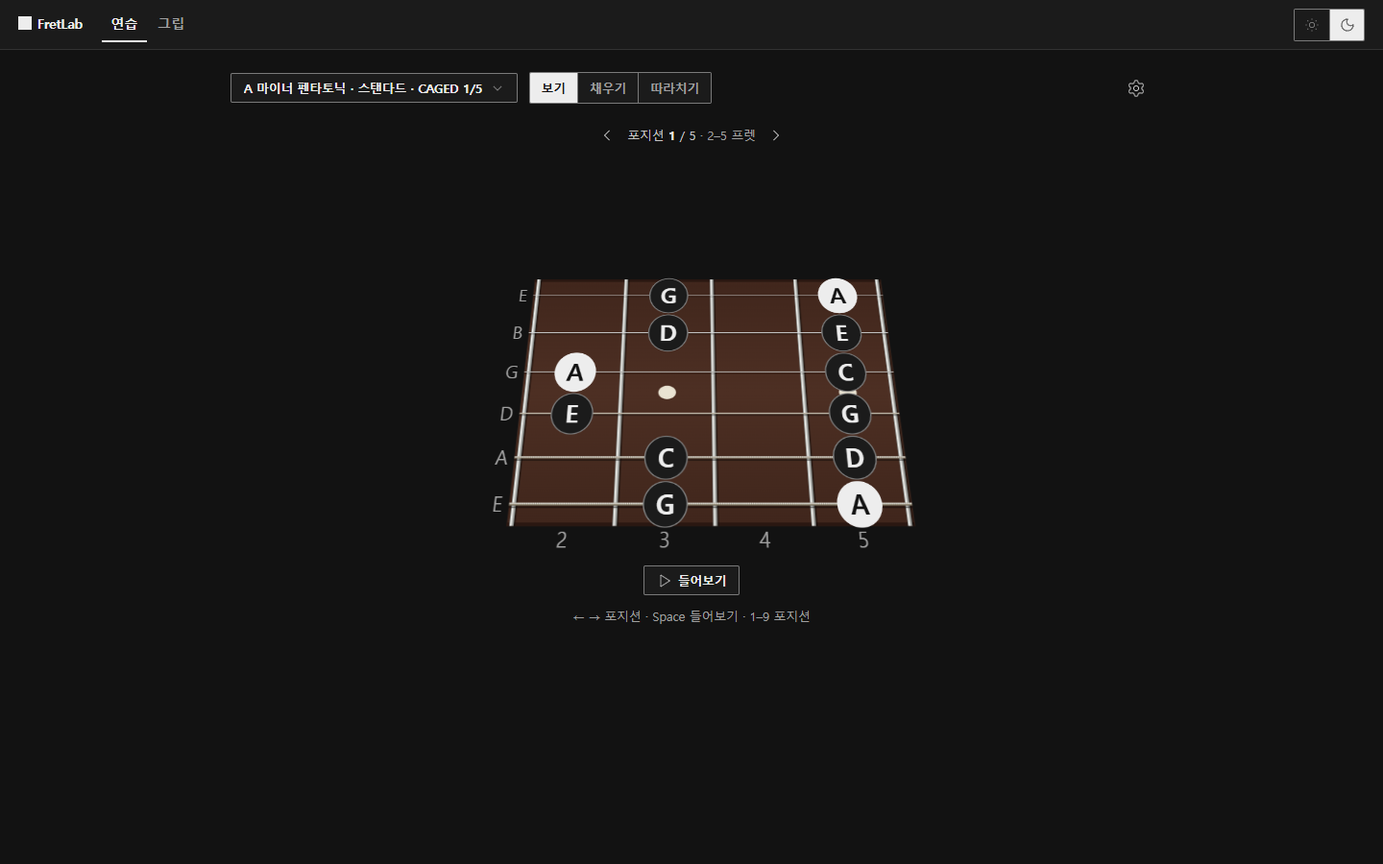
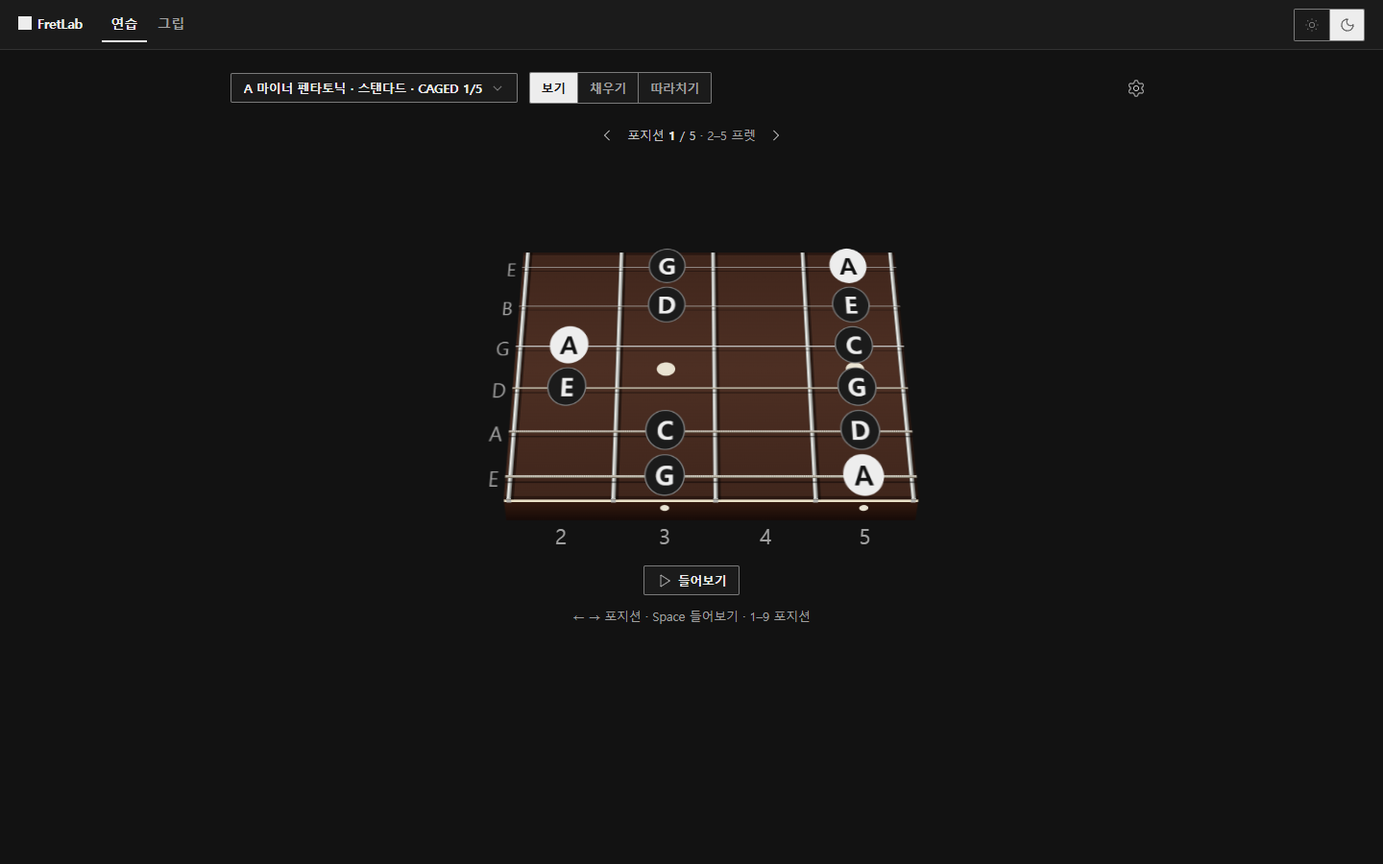
연주자 시점 입체감: 넥 옆면과 사이드 도트, 줄 그림자, 프렛 크라운, 너트 블록

Changed region(s): [[0.3438, 0.28, 0.6875, 0.6222]]

diff --git a/src/features/fretboard/Fretboard.tsx b/src/features/fretboard/Fretboard.tsx
@@ -1,6 +1,7 @@
-// 프렛보드 — 공유 계약 orchestration_fretlab.md §3.5 (에이전트 B 소유). SVG 하나에 지판·인레이·프렛·너트·줄·줄 이름·번호·마크·라벨·탭 셀.
+// 프렛보드 — 공유 계약 orchestration_fretlab.md §3.5 (에이전트 B 소유).
 // 실물 그리기(3차 R1): 색은 fretboard.css 의 --fb-*, 칸 폭은 geometry.wirePos. 줄·프렛 굵기는 화면 px 기준(ResizeObserver 배율).
-// view=player 는 래퍼 CSS 3D(fretboard.css), fill 은 부모 px 를 읽어 1단위 = 1px 로 그린다(그립 모드).
+// 5차 3D: 같은 viewBox 의 SVG 레이어 — 보드(z 0) · 옆면(지판 아래 가장자리에서 -90° 접힘) · 줄+너트 윗면(z HS) · 마크·라벨·탭 셀(z 2HS) + 스테이지 밖 번호.
+// view=player 는 스테이지 CSS 3D(fretboard.css), fill 은 부모 px 를 읽어 1단위 = 1px 로 그린다(그립 모드).
 import { useEffect, useRef, useState } from 'preact/hooks'
 import type { Accidental, FretPos, FretState, FretView, LabelMode, Mark, Tuning } from '../../core/types'
 import { posKey } from '../../core/types'
@@ -32,10 +33,12 @@ export type FretboardProps = {
 
 const NS = 'vector-effect'
 const PRESS_MS = 160
+/** 줄·너트 윗면이 지판에서 뜬 높이(화면 px). fretboard.css 의 translateZ 와 같은 값 */
+const HS = 3
 
 const grad = (id: string, vertical: boolean, stops: [number, string][]) => (
   <linearGradient id={id} x1="0" y1="0" x2={vertical ? 0 : 1} y2={vertical ? 1 : 0}>
-    {stops.map(([o, c]) => <stop key={o} offset={o} class={`fb-c-${c}`} />)}
+    {stops.map(([o, c]) => <stop key={c + o} offset={o} class={`fb-c-${c}`} />)}
   </linearGradient>
 )
 
@@ -115,6 +118,10 @@ export function Fretboard(p: FretboardProps) {
   const over = Math.min(L.padX, wireW)
   const left = a > 0 ? L.boardX - over : L.boardX, right = L.boardX + L.boardW + over
   const edge = L.sg * 0.07
+  // 옆면(5차 P2): 넥 두께 hn, 보드 위로 솟은 높이 hs. 옆면 SVG 는 y = bottom 선에서 접힌다 — 선 아래가 넥 옆면, 위가 너트 앞면·프렛 끝
+  const hn = L.sg * 0.55, hs = u(HS), sideR = L.sg * 0.075, sideY = L.bottom + hn * 0.42
+  const side: preact.JSX.Element[] = []
+  let nut: preact.JSX.Element | undefined
 
   const cells: preact.JSX.Element[] = []
   const nums: preact.JSX.Element[] = []
@@ -122,15 +129,22 @@ export function Fretboard(p: FretboardProps) {
   const dots: preact.JSX.Element[] = []
   for (let f = a; hasBoard && f <= hi; f++) {
     const x = L.wireX(f)
-    if (f === 0) wires.push(<rect key="nut" class="fb-nut" x={x - nutW} y={L.top} width={nutW} height={boardH} rx={u(1.5)} {...{ [NS]: 'non-scaling-stroke' }} />)
-    else wires.push(
-      <rect key={`ws${f}`} class="fb-shadow" x={x + wireW / 2} y={L.top} width={u(1.5)} height={boardH} />,
-      <rect key={`w${f}`} class="fb-fret" fill="url(#fb-g-fret)" x={x - wireW / 2} y={L.top} width={wireW} height={boardH} />,
-    )
+    if (f === 0) {
+      nut = <rect class="fb-nut" x={x - nutW} y={L.top} width={nutW} height={boardH} rx={u(1.5)} {...{ [NS]: 'non-scaling-stroke' }} />
+      side.push(<rect key="nf" class="fb-nut-front" x={x - nutW} y={L.bottom - hs} width={nutW} height={hs + hn * 0.5} />)
+    } else {
+      wires.push(
+        <rect key={`ws${f}`} class="fb-shadow fb-cast" x={x + wireW / 2} y={L.top} width={u(1.5)} height={boardH} />,
+        <rect key={`w${f}`} class="fb-fret" fill="url(#fb-g-fret)" x={x - wireW / 2} y={L.top} width={wireW} height={boardH} />,
+      )
+      side.push(<rect key={`we${f}`} class="fb-fret-end" x={x - wireW / 2} y={L.bottom - hs / 3} width={wireW} height={hs / 3 + hn * 0.16} />)
+    }
   }
   for (let f = lo; f <= hi; f++) {
     const x = L.x(f), cx = L.cx(f)
     if (INLAY.has(f)) {
+      // 사이드 도트: 지판 인레이와 같은 cx
+      for (const dx of DOUBLE_INLAY.has(f) ? [-1.6, 1.6] : [0]) side.push(<circle key={`sd${f}${dx}`} class="fb-dot" cx={cx + dx * sideR} cy={sideY} r={sideR} />)
       // 2점은 줄 사이에: 줄 수가 짝수면 ±1칸, 홀수면 ±½칸
       const off = n % 2 ? L.sg / 2 : L.sg
       if (DOUBLE_INLAY.has(f)) dots.push(<circle key={`d${f}a`} class="fb-dot" cx={cx} cy={L.midY - off} r={L.dot} />, <circle key={`d${f}b`} class="fb-dot" cx={cx} cy={L.midY + off} r={L.dot} />)
@@ -143,12 +157,13 @@ export function Fretboard(p: FretboardProps) {
       cells.push(<rect key={`c${key}`} class={`fb-cell${press ? ' pressed' : ''}`} data-pos={key} x={x} y={L.y(s) - L.sg / 2} width={L.cwAt(f)} height={L.sg} />)
     }
   }
-  // 줄: 지판에 떨군 그림자 → 몸통(위가 밝은 그라디언트) → 와운드는 권선 무늬(굵을 때만)
+  // 줄: 지판에 떨군 그림자(보드 레이어) → 몸통(위가 밝은 그라디언트) → 와운드는 권선 무늬(굵을 때만)
   const sx = lo === 0 ? L.x(0) : left
+  const shadows: preact.JSX.Element[] = []
   const strings = p.tuning.strings.flatMap((_, s) => {
     const px = stringPx(s, n, p.fill), th = u(px), y = L.y(s), wound = isWound(s, n)
+    if (hasBoard) shadows.push(<rect key={`ss${s}`} class="fb-shadow fb-drop" x={left} y={y + th / 2 + u(1)} width={right - left} height={Math.max(u(1), th * 0.6)} />)
     return [
-      hasBoard && <rect key={`ss${s}`} class="fb-shadow" x={left} y={y + th / 2 + u(1)} width={right - left} height={Math.max(u(1), th * 0.6)} />,
       <rect key={`s${s}`} class={`fb-string${wound ? ' wound' : ''}`} fill={`url(#fb-g-${wound ? 'wound' : 'plain'})`} x={sx} y={y - th / 2} width={right - sx} height={th} />,
       wound && px >= 3 && <line key={`sw${s}`} class="fb-winding" x1={sx} y1={y} x2={right} y2={y} stroke-width={th} stroke-dasharray={`${u(0.8)} ${u(1.4)}`} />,
     ]
@@ -158,22 +173,35 @@ export function Fretboard(p: FretboardProps) {
     <text key={`sn${s}`} class="fb-string-name" x={sx - 4} y={L.y(s)} dy=".36em" font-size={L.numFont}>{noteName(midiToPc(open), p.accidental)}</text>
   ))
 
+  const vb = `0 0 ${L.w} ${L.h}`, pct = (v: number) => `${(v / L.h) * 100}%`
   return (
-    <div ref={ref} class={`fretboard${p.fill ? ' fill' : ''} ${p.className ?? ''}`} data-view={p.view} data-tap={p.onTap ? '' : undefined} data-drag={p.drag ? '' : undefined} style={{ '--tilt': p.view === 'player' ? p.tilt ?? 0.6 : 0 }}>
-      <div class="fb-stage">
-        <svg viewBox={`0 0 ${L.w} ${L.h}`} role="img" aria-label={`프렛보드 ${p.tuning.name} ${lo}–${hi}프렛`} onPointerDown={onDown} onPointerMove={onMove} onPointerUp={onUp} onPointerCancel={onUp}>
+    <div ref={ref} class={`fretboard${p.fill ? ' fill' : ''} ${p.className ?? ''}`} data-view={p.view} data-tap={p.onTap ? '' : undefined} data-drag={p.drag ? '' : undefined} style={{ '--tilt': p.view === 'player' ? p.tilt ?? 0.6 : 0, '--fb-u': 1 / scale, '--fb-hn': hn * scale }}>
+      <div class="fb-stage" style={{ transformOrigin: `50% ${pct(L.bottom)}` }}>
+        <svg class="fb-base" viewBox={vb} aria-hidden="true">
           <defs>
             {grad('fb-g-board', true, [[0, 'wood'], [0.5, 'wood-hi'], [1, 'wood']])}
             {grad('fb-g-fret', false, [[0, 'fret-lo'], [0.3, 'fret-hi'], [0.65, 'fret'], [1, 'fret-lo']])}
             {grad('fb-g-plain', true, [[0, 'str-hi'], [0.45, 'str-plain'], [1, 'str-lo']])}
             {grad('fb-g-wound', true, [[0, 'str-wound'], [0.3, 'str-hi'], [0.6, 'str-wound'], [1, 'str-lo']])}
+            {grad('fb-g-side', true, [[0, 'nut'], [0.13, 'nut'], [0.13, 'side'], [1, 'side-lo']])}
           </defs>
-          {hasBoard && <rect class="fb-board" fill="url(#fb-g-board)" x={left} y={L.top} width={right - left} height={boardH} />}
+          {hasBoard && <rect fill="url(#fb-g-board)" x={left} y={L.top} width={right - left} height={boardH} />}
           {hasBoard && <rect class="fb-edge" x={left} y={L.top} width={right - left} height={edge} />}
           {hasBoard && <rect class="fb-edge" x={left} y={L.bottom - edge} width={right - left} height={edge} />}
-          {dots}{wires}{strings}{names}{nums}{markNodes}{cells}
+          {dots}{wires}{shadows}{names}
+        </svg>
+        {hasBoard && (
+          <svg class="fb-side" viewBox={`0 ${L.bottom - hs} ${L.w} ${hs + hn}`} aria-hidden="true" style={{ top: pct(L.bottom - hs), height: pct(hs + hn), transformOrigin: `50% ${(hs / (hs + hn)) * 100}%` }}>
+            <rect fill="url(#fb-g-side)" x={left} y={L.bottom} width={right - left} height={hn} />
+            {side}
+          </svg>
+        )}
+        <svg class="fb-z1" viewBox={vb} aria-hidden="true">{nut}{strings}</svg>
+        <svg class="fb-z2" viewBox={vb} role="img" aria-label={`프렛보드 ${p.tuning.name} ${lo}–${hi}프렛`} onPointerDown={onDown} onPointerMove={onMove} onPointerUp={onUp} onPointerCancel={onUp}>
+          {markNodes}{cells}
         </svg>
       </div>
+      <svg viewBox={vb} aria-hidden="true">{nums}</svg>
     </div>
   )
 }

diff --git a/src/features/fretboard/fretboard.css b/src/features/fretboard/fretboard.css
@@ -1,27 +1,35 @@
 /* 프렛보드 — B 소유. 색은 전부 여기(SVG 는 class 만 단다). 실물 hex 는 --fb-* 정의에만, 그 밖은 index.css 토큰 */
-.fretboard { width: 100%; --tilt: 0; }
+/* 5차 3D 변수 — 전부 --tilt 파생(flat = 0): 기울기 각, 줄 그림자 오프셋(viewBox 단위), 프렛 그림자 폭 배율.
+   --fb-u(화면 1px 의 viewBox 단위)·--fb-hn(넥 옆면 높이 px)은 Fretboard.tsx 가 넣는다 */
+.fretboard { position: relative; width: 100%; --tilt: 0; --fb-a: calc(var(--tilt) * 66deg); --fb-drop: calc(var(--tilt) * var(--fb-u) * 1.5px); --fb-cast: calc(1 + var(--tilt) * 1.5); }
 .fretboard.fill { height: 100%; }
-.fretboard .fb-stage { width: 100%; height: 100%; transform-origin: 50% 100%; transition: transform var(--t-slow) var(--ease-out); }
-.fretboard svg { display: block; width: 100%; height: auto; max-height: 45vh; /* QA #3: 좁은 포지션 창이 1440×900 에서 행동 바를 밀어내지 않게 (60vh → 45vh) */ overflow: visible; touch-action: pan-y; user-select: none; -webkit-user-select: none; }
-.fretboard.fill svg { height: 100%; max-height: none; touch-action: none; } /* QA #2: fill(그립)은 60vh 에 갇히지 않게 */
+.fretboard .fb-stage { position: relative; width: 100%; height: 100%; transform-style: preserve-3d; transition: transform var(--t-slow) var(--ease-out); }
+/* 레이어: .fb-base 가 크기를 정하고 나머지는 그 위에 겹친다. DOM 순서 = 높이 순서, 맨 위(.fb-z2)만 포인터를 받는다 */
+.fretboard svg { display: block; position: absolute; inset: 0; width: 100%; height: 100%; overflow: visible; pointer-events: none; touch-action: pan-y; user-select: none; -webkit-user-select: none; }
+.fretboard .fb-base { position: static; height: auto; max-height: 45vh; /* QA #3: 좁은 포지션 창이 1440×900 에서 행동 바를 밀어내지 않게 (60vh → 45vh) */ }
+.fretboard.fill .fb-base { height: 100%; max-height: none; } /* QA #2: fill(그립)은 60vh 에 갇히지 않게 */
+.fretboard.fill svg { touch-action: none; }
+.fretboard .fb-side { transform: rotateX(-90deg); backface-visibility: hidden; }
+.fretboard .fb-z1 { transform: translateZ(3px); }
+.fretboard .fb-z2 { transform: translateZ(6px); pointer-events: auto; }
 .fretboard[data-drag] svg { touch-action: none; } /* U4: 쓸어 찍기 중 스크롤 금지 */
 .fretboard text { font-family: inherit; text-anchor: middle; pointer-events: none; }
 
 /* 실물 색(3차 R1) — 디자인 시스템 예외는 이 --fb-* 정의 안에서만. 라이트 = 메이플, 다크 = 로즈우드. 두 벌 구조는 index.css 와 같다 */
 :root {
-  --fb-wood: #e0bd82; --fb-wood-hi: #ecd19f; --fb-wood-edge: #c59f62; --fb-inlay: #1f1c19;
+  --fb-wood: #e0bd82; --fb-wood-hi: #ecd19f; --fb-wood-edge: #c59f62; --fb-side: #c29a5c; --fb-side-lo: #8f6a3a; --fb-inlay: #1f1c19;
   --fb-fret: #b7b9b6; --fb-fret-hi: #fafaf7; --fb-fret-lo: #777a77; --fb-nut: #f4eedc; --fb-nut-edge: #a99d7e;
   --fb-str-plain: #8b9096; --fb-str-wound: #8d8472; --fb-str-hi: #f3f4f5; --fb-str-lo: #555048; --fb-shadow: #4a2c0a3d;
 }
 @media (prefers-color-scheme: dark) {
   :root:not([data-theme='light']) {
-    --fb-wood: #40261c; --fb-wood-hi: #4d2f23; --fb-wood-edge: #2a1711; --fb-inlay: #e9e3d2;
+    --fb-wood: #40261c; --fb-wood-hi: #4d2f23; --fb-wood-edge: #2a1711; --fb-side: #33190f; --fb-side-lo: #170b07; --fb-inlay: #e9e3d2;
     --fb-fret: #b2b4b1; --fb-fret-hi: #f4f4f0; --fb-fret-lo: #5c5e5b; --fb-nut: #e9e0c6; --fb-nut-edge: #7d745c;
     --fb-str-plain: #c9cdd1; --fb-str-wound: #a79d88; --fb-str-hi: #ffffff; --fb-str-lo: #5f594c; --fb-shadow: #00000073;
   }
 }
 :root[data-theme='dark'] {
-  --fb-wood: #40261c; --fb-wood-hi: #4d2f23; --fb-wood-edge: #2a1711; --fb-inlay: #e9e3d2;
+  --fb-wood: #40261c; --fb-wood-hi: #4d2f23; --fb-wood-edge: #2a1711; --fb-side: #33190f; --fb-side-lo: #170b07; --fb-inlay: #e9e3d2;
   --fb-fret: #b2b4b1; --fb-fret-hi: #f4f4f0; --fb-fret-lo: #5c5e5b; --fb-nut: #e9e0c6; --fb-nut-edge: #7d745c;
   --fb-str-plain: #c9cdd1; --fb-str-wound: #a79d88; --fb-str-hi: #ffffff; --fb-str-lo: #5f594c; --fb-shadow: #00000073;
 }
@@ -34,9 +42,14 @@
 .fb-edge { fill: var(--fb-wood-edge); }
 .fb-dot { fill: var(--fb-inlay); }
 .fb-nut { fill: var(--fb-nut); stroke: var(--fb-nut-edge); stroke-width: 1; }
+.fb-c-nut { stop-color: var(--fb-nut); } .fb-c-side { stop-color: var(--fb-side); } .fb-c-side-lo { stop-color: var(--fb-side-lo); }
+.fb-nut-front { fill: color-mix(in srgb, var(--fb-nut) 72%, var(--fb-nut-edge)); }
+.fb-fret-end { fill: var(--fb-fret); }
 .fb-shadow { fill: var(--fb-shadow); }
+/* 기울수록: 줄 그림자는 아래로 벌어지고(줄이 3px 떠 있어 시차도 더해진다) 프렛 그림자는 넓어진다 */
+.fb-drop { transform: translateY(var(--fb-drop)); }
+.fb-cast { transform-box: fill-box; transform-origin: 0 0; transform: scaleX(var(--fb-cast)); }
 .fb-winding { stroke: var(--fb-str-lo); stroke-opacity: .45; }
-.fb-board, .fb-edge, .fb-dot, .fb-nut, .fb-fret, .fb-shadow, .fb-string, .fb-winding { pointer-events: none; }
 .fb-num { fill: var(--muted); }
 .fretboard .fb-string-name { fill: var(--muted); text-anchor: end; } /* U1: `.fretboard text` 보다 우선 */
 
@@ -60,7 +73,7 @@
 /* U2 눌림: 마크는 튀어오르고, 마크 없는 자리는 셀이 잠깐 어두워진다 */
 .fb-mark.pressed { animation: fb-press var(--t-fast) var(--ease-out); }
 .fb-cell.pressed { fill: color-mix(in srgb, var(--text) 10%, transparent); }
-@keyframes fb-press { from { transform: scale(1.15); } to { transform: scale(1); } }
+@keyframes fb-press { from { scale: 1.15; } to { scale: 1; } } /* scale 속성: 연주자 시점의 transform 보정과 겹쳐도 유지 */
 
 /* 탭 셀: 맨 위 투명 레이어 */
 .fb-cell { fill: transparent; pointer-events: all; transition: fill var(--t-fast); }
@@ -68,12 +81,15 @@
 .fretboard[data-tap] .fb-cell { cursor: pointer; }
 @media (hover: hover) { .fb-cell:hover { fill: color-mix(in srgb, var(--text) 6%, transparent); } }
 
-/* 연주자 시점(3차 R2): 앞으로만 눕힌다 — 낮은 줄(아래)이 눈에 가깝게, 하단 축. 줄은 수평·프렛은 좌우 대칭 */
-.fretboard[data-view='player'] .fb-stage { transform: perspective(1100px) rotateX(calc(var(--tilt) * 55deg)); }
-/* 눌림 보정: 화면 종횡비 = cosθ × 원근 축소 → 그 역수만큼 세로로 늘려 원형 마크가 원에 가깝게.
-   ponytail: 원근 항(1 + tilt × .12)은 지판 가운데 줄 기준 한 값 — 맨 위/아래 줄은 몇 % 타원. 줄마다 맞추려면 마크에 행 변수를 줄 것 */
-.fretboard[data-view='player'] .fb-mark, .fretboard[data-view='player'] .fb-label, .fretboard[data-view='player'] .fb-num, .fretboard[data-view='player'] .fb-string-name {
-  transform-box: fill-box; transform-origin: center; transform: scaleY(calc((1 + var(--tilt) * .12) / cos(calc(var(--tilt) * 55deg))));
+/* 연주자 시점(3차 R2 → 5차 P1): 앞으로만 눕힌다 — 지판 아래 가장자리가 축(transform-origin 은 Fretboard.tsx), 낮은 줄이 눈에 가깝게.
+   옆면이 축 아래로 hn × sinθ 만큼 드러나므로 스테이지를 그만큼 올려 번호(스테이지 밖, 눕지 않음) 위에 얹는다 */
+.fretboard[data-view='player'] .fb-stage { transform: translateY(calc(sin(var(--fb-a)) * var(--fb-hn) * -1px)) perspective(2000px) rotateX(var(--fb-a)); }
+/* 눌림 보정: 화면 종횡비 = cos(각) x 원근 축소(.92~1) → 1/cos 만큼 세로로 늘려 원형 마크가 원에 가깝게(줄 이름도).
+   66도에서는 줄 간격(화면)이 마크 지름의 절반 남짓이라, 기울수록 마크만 줄이고(--fb-m) 글자는 그대로 두어 이웃 줄 마크에 가리지 않게 한다 */
+.fretboard[data-view='player'] { --fb-m: calc(1 - var(--tilt) * .2); --fb-sy: calc((1 + var(--tilt) * .07) / cos(var(--fb-a))); }
+.fretboard[data-view='player'] .fb-mark, .fretboard[data-view='player'] .fb-label, .fretboard[data-view='player'] .fb-string-name {
+  transform-box: fill-box; transform-origin: center; transform: scale(var(--fb-m), calc(var(--fb-m) * var(--fb-sy)));
   transition: transform var(--t-slow) var(--ease-out);
 }
+.fretboard[data-view='player'] .fb-label, .fretboard[data-view='player'] .fb-string-name { --fb-m: 1; }
 .fretboard[data-view='player'] .fb-label { font-weight: 700; }

diff --git a/docs/plans/agent_B_fretboard_player3d.md b/docs/plans/agent_B_fretboard_player3d.md
@@ -1,0 +1,56 @@
+# 에이전트 B — 연주자 시점 3D 보강 plan (5차)
+
+작성 2026-11-14. 범위: `orchestration_fretlab_player3d.md` §1 P1~P4. 계약 §3.5 `FretboardProps` 불변, E2E 셀렉터(`[data-pos]` `.fb-mark` `.root` `.st-*` `.fb-label` `.fb-string-name` `.pressed`)·2차 U1~U6·3차 `--fb-*`·간격 유지.
+
+## 접근 방식
+- **레이어**: SVG 자식은 `preserve-3d` 가 안 되므로 SVG 하나를 **같은 viewBox 의 SVG 4장**으로 나눈다. `.fb-stage`(`transform-style: preserve-3d`) 안에 ① 보드(흐름 안, 크기 결정: 지판·띠·인레이·와이어·줄 그림자·줄 이름·번호, z 0) ② 옆면 `.fb-side` ③ 줄(너트 윗면·줄·권선, `translateZ(3px)`) ④ 탭(마크·라벨·셀 + 포인터 핸들러, `translateZ(6px)`). ②~④ 는 `position: absolute; inset: 0`. DOM 순서 = z 순서라 flat(원근 없음)에서는 지금과 같은 그림.
+- **옆면(P2)**: 작은 SVG(viewBox y = 지판 아래 가장자리 −Hs ~ +Hn)를 지판 아래 가장자리 선에 맞춰 놓고 그 선을 축으로 `rotateX(-90deg)`. 선 아래(y > bottom) = 넥 옆면(z 0 ~ −Hn), 선 위 = 보드보다 솟은 것의 앞면(z 0 ~ +Hs: 너트 앞면·프렛 끝). 면 = 세로 그라디언트 rect 1개(바인딩 띠 `--fb-nut` → `--fb-side` → `--fb-side-lo`), 사이드 도트 = `L.cx(f)`(지판 인레이와 같은 함수), 12·24 는 2점. Hn = 줄 간격 × .55. `backface-visibility: hidden`.
+- **줄·프렛·너트(P3)**: 줄 그림자는 보드 레이어에 남는다 → 줄이 3px 떠 있으므로 기울이면 시차로 벌어지고, 추가로 `--fb-drop`(= `--tilt` 파생)만큼 아래로 민다. 프렛 그림자 폭은 `scaleX(1 + --tilt × n)`. 너트는 윗면을 줄 레이어(z 3px)로 올리고 앞면을 옆면 SVG 에 그려 블록으로(앞면의 화면 높이 = 높이 × sin(tilt·66°) — flat 에서 0).
+- **기울기(P1)**: `perspective(P) rotateX(tilt·66deg)`. 옆면이 화면 아래로 Hn·sinθ 만큼 나오므로 스테이지를 그만큼 올리고(`translateY`), 번호는 평면 안에서 Hn·tanθ 만큼 밀어 옆면 아래에 둔다. 세로 보정 `scaleY(c / cosθ)` 는 측정으로 맞춘다.
+- JS → CSS 변수: `--tilt`, `--fb-k`(viewBox 1단위의 화면 px), `--fb-hn`(Hn, viewBox 단위).
+- 검토한 대안: (a) 옆면·너트 앞면을 보드 평면에 2D 로 그리고 높이만 `--tilt` 로 — 원근이 안 맞고 도트가 지판 인레이와 어긋남, 기각. (b) 마크를 요소별 div 빌보드로 — 노드·히트테스트 비용, 기각.
+
+## 파일
+- `src/features/fretboard/Fretboard.tsx` — 레이어 4장, 옆면
+- `src/features/fretboard/fretboard.css` — 3D, `--fb-side*`, tilt 파생 변수
+- `docs/plans/agent_B_fretboard_player3d.md` — 이 문서
+(`geometry.ts` 는 필요하면 상수만)
+
+## 작업
+- [x] 1. 기준선: main 번들 gzip, 노드 수 기록
+- [x] 2. Fretboard.tsx: SVG 4장 분리(셀렉터·핸들러 유지), 옆면 SVG(면·도트·너트 앞면·프렛 끝)
+- [x] 3. fretboard.css: preserve-3d·translateZ·옆면 회전, 66°·보정·스테이지 올림·번호 밀기, `--fb-side*` 두 벌, tilt 파생 그림자
+- [x] 4. typecheck / lint / check / build, gzip 증가 ≤ 1.5 KB, 노드 ≤ 1.5배
+- [x] 5. 스크린샷(8043): 1440 라이트/다크 × tilt .6·1, 390 tilt 1, flat·그립 회귀 — 이미지로 읽고 보정
+- [x] 6. 측정: player tilt 1 셀 탭 히트테스트(`[data-pos]` 중심 클릭 → `.pressed`), 먼 쪽 라벨 px(1440 15프렛 ≥ 10, 390 9칸 ≥ 9), 마크 종횡비 0.9~1.1, 사이드 도트 x = 인레이 x
+- [x] 7. 결과 기록·커밋·보고
+
+## 검증 방법
+- 2~4: `npm run typecheck && npm run lint && npm run check && npm run build`, `grep` 으로 `box-shadow` 0·`--fb-*` 정의 밖 hex 0.
+- 5~6: `npx vite --port 8043` + Playwright 임시 스크립트(scratchpad, 미커밋). 스크린샷은 이미지로 읽어 확인, 측정은 `getBoundingClientRect`·`elementFromPoint`·실제 클릭.
+
+## 변경 사항 (계획 대비)
+- **번호는 스테이지 밖 평면 SVG(5번째 레이어)**: 옆면이 지판 아래로 드러나 번호 자리와 겹친다. 평면 안에서 밀면 눈 쪽으로 다가와 원근 확대로 칸 중심과 어긋나므로(가장자리 ≈ 20px) 번호를 눕지 않는 SVG 로 빼고, 회전축을 지판 아래 가장자리(`transform-origin` = `L.bottom`)로 옮겨 그 선이 원근 배율 1 이 되게 했다 → 번호 x = 칸 중심 그대로. 스테이지는 `translateY(−hn·sinθ)` 로 올려 옆면 아래 끝이 원래 지판 아래 선에 온다. 번호의 세로 보정은 필요 없어 제거.
+- **`perspective` 1100 → 2000px**: 66° 에서 1100px 은 좌우 끝 열 마크가 심하게 전단되고 먼 쪽 라벨이 작아진다. 2000px 로 먼 쪽 축소 ≈ .91(1440)·.95(390).
+- **마크 축소 `--fb-m = 1 − tilt × .2`(글자·줄 이름은 그대로)**: 66° 에서 화면 줄 간격이 마크 지름의 절반 남짓이라 원형 보정만 하면 이웃 줄 마크가 라벨을 절반 가린다. 마크만 줄여 겹침을 줄였다(글자는 P1 의 px 기준 때문에 유지). 세로 보정은 `(1 + tilt × .07) / cos θ`.
+- **너트 앞면·프렛 끝은 실제 3D 면**(옆면 SVG 의 접힘선 위쪽, z 0 ~ +3px): "높이 = `--tilt` 파생 CSS 변수" 대신 화면 높이가 3px × sin(tilt·66°) 로 회전에서 나온다(flat 0). 줄 그림자 오프셋(`--fb-drop`)·프렛 그림자 폭(`--fb-cast`)·각(`--fb-a`)은 `--tilt` 파생 변수 그대로.
+- **`--fb-side-dot` 은 만들지 않고 `--fb-inlay` 재사용**(메이플 = 검정, 로즈우드 = 진주 — 같은 값). 새 변수는 `--fb-side`·`--fb-side-lo` 둘.
+- **`.fb-board` 클래스·pointer-events 나열 규칙 제거**: 맨 위 레이어 밖은 SVG 루트에서 `pointer-events: none`.
+- **`fb-press` 키프레임을 `scale` 속성으로**: `transform` 을 쓰면 눌림 동안 연주자 시점 보정이 풀린다(3차부터 있던 문제).
+- Hs·Hm 의 "fill 비례"는 하지 않음: fill 은 flat(원근 없음)이라 translateZ 가 보이지 않는다.
+
+## 결과 (2026-11-14)
+- `npm run typecheck`·`lint`·`check`(geometry.check 포함)·`build` 통과. 번들 gzip JS 24.30 → 24.66 KB, CSS 5.86 → 6.10 KB = **+0.60 KB**(≤ 1.5). `box-shadow` 0, hex 는 `--fb-*` 정의 줄에만, 새 의존성 0.
+- 노드(6현 0–15, 마크 포함): 268 → **301**(1.12배). 그립 4칸 113 → 129.
+- Playwright(Edge, `npx vite --port 8043`, 임시 스크립트 scratchpad·미커밋). 스크린샷 1440 라이트/다크 × tilt .6·1, 390 다크 tilt 1(8칸·9칸), 1440 flat, 844×390 그립을 이미지로 읽어 확인: 기울이면 연주자 쪽 넥 옆면(크림 바인딩 띠 + 아래로 어두워지는 나무)과 사이드 도트(12프렛 2점), 옆면 위로 솟은 크림 너트 블록, 프렛 끝 금속이 보이고 줄이 그림자와 떨어져 떠 보인다. flat·그립은 3차와 같은 그림.
+- 측정(player tilt 1)
+  - 각도: 스테이지 `matrix3d` 의 cos .4067 / sin .9135 = **66°**(tilt .6 → 39.6°).
+  - 먼 쪽(1번줄) 라벨: 1440 15프렛 세로 **13.7px** · 가로 14.4~16.1px(≥ 10), 390 9칸 창 세로 **9.5px** · 가로 9.7~10.1px(≥ 9), 390 8칸 10.4px.
+  - 마크 종횡비(가운데 열, 줄별): 1440 **0.96~1.03**, 390 0.95~1.03, tilt .6 0.95~1.02. 좌우 끝 열은 원근 전단 때문에 경계 상자 기준 0.67~0.85(모양은 기운 타원).
+  - 히트테스트: 모든 셀 중심 `elementFromPoint` = 자기 `[data-pos]` — 1440 **96/96**(tilt 1·.6), 390 48/48·54/54, 그립 30/30. 실제 클릭(먼 줄 5:3·5:12, 가운데 2:7, 가까운 줄 0:10·0:1) → `.pressed` 생김 → 350ms 뒤 0. 셀 화면 높이 tilt 1: 1440 11.9~13.9px, 390 9.2~10.3px.
+  - 사이드 도트 `cx` = 지판 인레이 `cx`(같은 `L.cx(f)`: 259.97 · 390.39 · 514.56 · 633.17 · 961.39, 12프렛은 801.97 ± 4.3).
+  - 가로 넘침 0, 콘솔 오류 0.
+- 미해결 / 알려진 제한
+  - tilt 1(66°)에서는 화면 줄 간격(≈ 13px @1440)이 마크보다 작아 **같은 프렛의 이웃 줄 마크가 서로 겹친다**(가까운 줄이 먼 줄 마크 아래쪽을 덮음). 2글자 라벨(`F#`)은 줄인 마크 폭을 거의 채운다. 각도 자체의 한계 — 더 줄이려면 라벨 px 기준(≥ 10 / ≥ 9)을 낮춰야 한다.
+  - tilt 1 의 탭 표적 높이 10~14px(각도 고유). 연주용 탭은 flat/그립 권장.
+  - E2E 는 실행하지 않음(QA 단계). 계약 변경 요청 없음.

diff --git a/docs/plans/orchestration_fretlab_player3d.md b/docs/plans/orchestration_fretlab_player3d.md
@@ -28,5 +28,7 @@
 ## 5. 머지·검증
 B4 머지 → typecheck/lint/check/build → E2E 4/4 → 스크린샷 `docs/qa/real-player-*.png` 갱신(tilt .6·1, 라이트/다크).
 
-## 6. 결과
-(머지 뒤)
+## 6. 결과 (2026-11-14)
+- P1~P4 완료: B4 커밋 bb1b253 머지(de107ac). 66°·perspective 2000px·회전축 = 지판 아래 가장자리, SVG 레이어(보드 z0 · 옆면 rotateX(-90°) + 사이드 도트 · 줄/너트 윗면 z3 · 마크/라벨/셀 z6 · 번호는 평면), tilt 파생 변수로 줄 그림자·프렛 크라운·너트 앞면. 워커 변경 사항은 `agent_B_fretboard_player3d.md`.
+- 검증: typecheck 0 · lint 0 · check 5/5 · build JS 24.87 + CSS 6.10 KB gzip(+0.6) · E2E 4/4 · 스크린샷 `docs/qa/real-player*.png`(tilt .6·1, 1440 라이트/다크, 390). 히트테스트 tilt 1 에서 96/96(워커 측정), 먼 쪽 라벨 1440 13.7px / 390 9.5px.
+- 각도 고유 제한(워커 보고, 오케스트레이터 확인): tilt 1(66°) 전체 15프렛 보기에서는 같은 프렛의 이웃 줄 마크가 겹쳐 보이고 탭 표적 높이가 10~14px 로 줄어든다. 포지션(4~6칸) 보기에서는 양호. 사용자 권장 기울기 50~70%. 더 높은 각도에서도 읽히게 하려면 기울기에 따라 스테이지를 확대(가로 넘침 처리 필요)하는 후속 작업이 필요.
